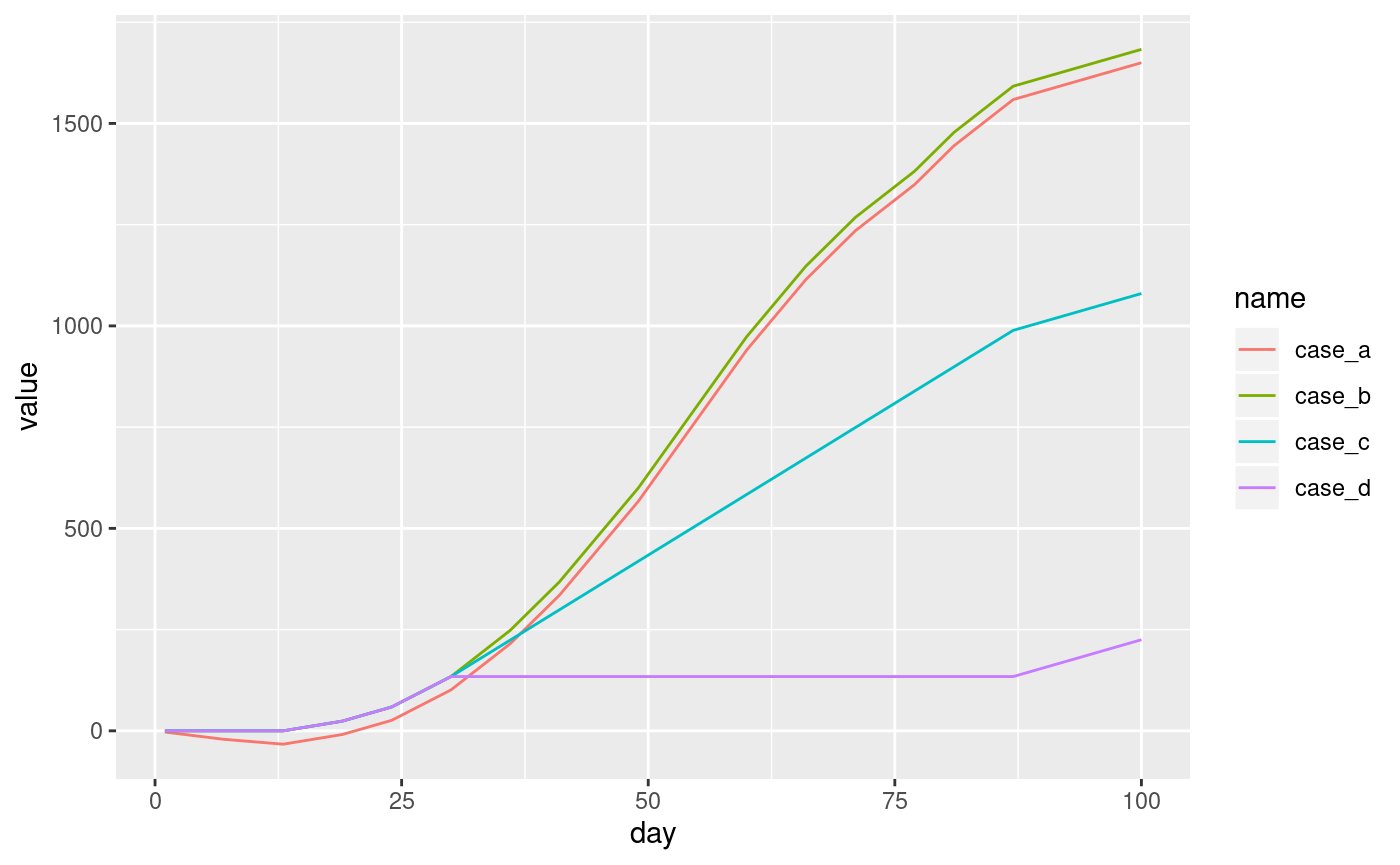
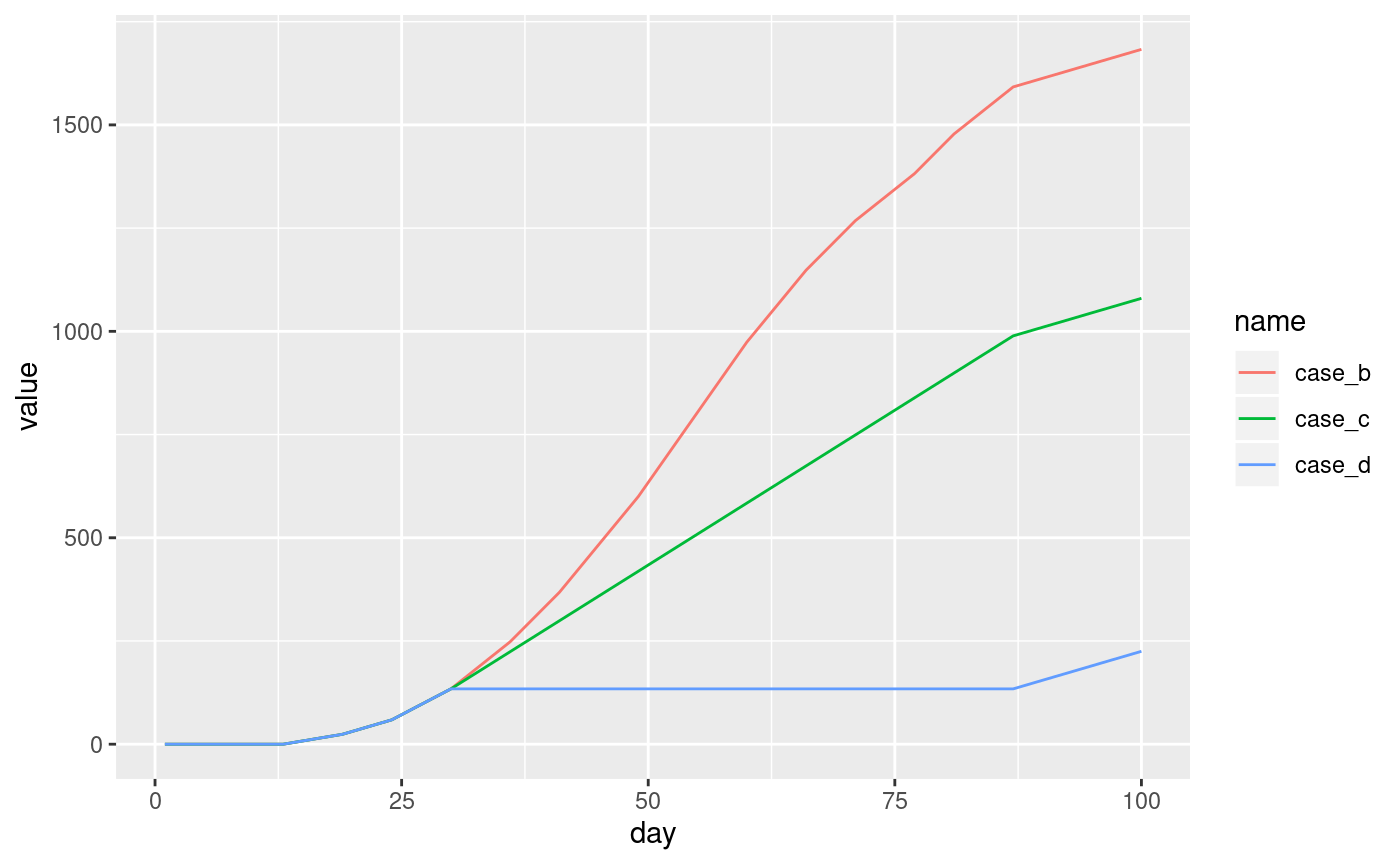
updates the website

diff --git a/docs/articles/gdd.html b/docs/articles/gdd.html
@@ -127,35 +127,32 @@
 <li>
 <code>tbase_max</code> - maximum base temperature</li>
 <li>
-<code>case</code> - type of the GDD calculations. Either “A”, “B”, “C”, or “D”. The default is “C”.</li>
+<code>case</code> - type of the GDD calculations. Either “B”, “C”, or “D”. The default is “C”.</li>
 </ul>
 <p>The last argument is inspired by the article by Baskerville and Emin (1969) (see Figure 1 in the mentioned paper).</p>
 <ul>
-<li>Case <code>"A"</code> - this is the simplest case. The heat units are calculated based on the difference between the mean daily temperature and the threshold (<code>tbase</code>)</li>
-<li>Case <code>"B"</code> - in this case when the value of <code>tmin</code> is lower than <code>tbase</code>, then it is replaced by <code>tbase</code>
+<li>Case <code>"B"</code> - The heat units are calculated based on the difference between the mean daily temperature and the threshold (<code>tbase</code>). In the case when the value of <code>tmin</code> is lower than <code>tbase</code>, then it is replaced by <code>tbase</code>
 </li>
 <li>Case <code>"C"</code> - same as case <code>"B"</code> and when the value of <code>tmax</code> is larger than <code>tbase_max</code>, then it is replaced by <code>tbase_max</code>
 </li>
 <li>Case <code>"D"</code>- same as case <code>"B"</code> and when the value of <code>tmax</code> is larger than <code>tbase_max</code>, then no heat units are added</li>
 </ul>
-<div class="sourceCode" id="cb4"><pre class="sourceCode r"><code class="sourceCode r"><a class="sourceLine" id="cb4-1" data-line-number="1">gdd_data<span class="op">$</span>case_a &lt;-<span class="st"> </span><span class="kw"><a href="../reference/gdd.html">gdd</a></span>(<span class="dt">tmax =</span> gdd_data<span class="op">$</span>tmax, <span class="dt">tmin =</span> gdd_data<span class="op">$</span>tmin,</a>
-<a class="sourceLine" id="cb4-2" data-line-number="2">                       <span class="dt">tbase =</span> <span class="dv">5</span>, <span class="dt">case =</span> <span class="st">"A"</span>)</a>
-<a class="sourceLine" id="cb4-3" data-line-number="3">gdd_data<span class="op">$</span>case_b &lt;-<span class="st"> </span><span class="kw"><a href="../reference/gdd.html">gdd</a></span>(<span class="dt">tmax =</span> gdd_data<span class="op">$</span>tmax, <span class="dt">tmin =</span> gdd_data<span class="op">$</span>tmin, </a>
-<a class="sourceLine" id="cb4-4" data-line-number="4">                       <span class="dt">tbase =</span> <span class="dv">5</span>, <span class="dt">case =</span> <span class="st">"B"</span>)</a>
-<a class="sourceLine" id="cb4-5" data-line-number="5">gdd_data<span class="op">$</span>case_c &lt;-<span class="st"> </span><span class="kw"><a href="../reference/gdd.html">gdd</a></span>(<span class="dt">tmax =</span> gdd_data<span class="op">$</span>tmax, <span class="dt">tmin =</span> gdd_data<span class="op">$</span>tmin, </a>
-<a class="sourceLine" id="cb4-6" data-line-number="6">                       <span class="dt">tbase =</span> <span class="dv">5</span>, <span class="dt">tbase_max =</span> <span class="dv">20</span>, <span class="dt">case =</span> <span class="st">"C"</span>)</a>
-<a class="sourceLine" id="cb4-7" data-line-number="7">gdd_data<span class="op">$</span>case_d &lt;-<span class="st"> </span><span class="kw"><a href="../reference/gdd.html">gdd</a></span>(<span class="dt">tmax =</span> gdd_data<span class="op">$</span>tmax, <span class="dt">tmin =</span> gdd_data<span class="op">$</span>tmin, </a>
-<a class="sourceLine" id="cb4-8" data-line-number="8">                       <span class="dt">tbase =</span> <span class="dv">5</span>, <span class="dt">tbase_max =</span> <span class="dv">20</span>, <span class="dt">case =</span> <span class="st">"D"</span>)</a>
-<a class="sourceLine" id="cb4-9" data-line-number="9"><span class="kw"><a href="https://rdrr.io/r/utils/head.html">head</a></span>(gdd_data)</a>
-<a class="sourceLine" id="cb4-10" data-line-number="10"><span class="co">#&gt;   day tmax tmin case_a case_b case_c case_d</span></a>
-<a class="sourceLine" id="cb4-11" data-line-number="11"><span class="co">#&gt; 1   1    2    2     -3      0      0      0</span></a>
-<a class="sourceLine" id="cb4-12" data-line-number="12"><span class="co">#&gt; 2   2    2    2     -6      0      0      0</span></a>
-<a class="sourceLine" id="cb4-13" data-line-number="13"><span class="co">#&gt; 3   3    2    2     -9      0      0      0</span></a>
-<a class="sourceLine" id="cb4-14" data-line-number="14"><span class="co">#&gt; 4   4    2    2    -12      0      0      0</span></a>
-<a class="sourceLine" id="cb4-15" data-line-number="15"><span class="co">#&gt; 5   5    2    2    -15      0      0      0</span></a>
-<a class="sourceLine" id="cb4-16" data-line-number="16"><span class="co">#&gt; 6   6    2    2    -18      0      0      0</span></a></code></pre></div>
+<div class="sourceCode" id="cb4"><pre class="sourceCode r"><code class="sourceCode r"><a class="sourceLine" id="cb4-1" data-line-number="1">gdd_data<span class="op">$</span>case_b &lt;-<span class="st"> </span><span class="kw"><a href="../reference/gdd.html">gdd</a></span>(<span class="dt">tmax =</span> gdd_data<span class="op">$</span>tmax, <span class="dt">tmin =</span> gdd_data<span class="op">$</span>tmin, </a>
+<a class="sourceLine" id="cb4-2" data-line-number="2">                       <span class="dt">tbase =</span> <span class="dv">5</span>, <span class="dt">case =</span> <span class="st">"B"</span>)</a>
+<a class="sourceLine" id="cb4-3" data-line-number="3">gdd_data<span class="op">$</span>case_c &lt;-<span class="st"> </span><span class="kw"><a href="../reference/gdd.html">gdd</a></span>(<span class="dt">tmax =</span> gdd_data<span class="op">$</span>tmax, <span class="dt">tmin =</span> gdd_data<span class="op">$</span>tmin, </a>
+<a class="sourceLine" id="cb4-4" data-line-number="4">                       <span class="dt">tbase =</span> <span class="dv">5</span>, <span class="dt">tbase_max =</span> <span class="dv">20</span>, <span class="dt">case =</span> <span class="st">"C"</span>)</a>
+<a class="sourceLine" id="cb4-5" data-line-number="5">gdd_data<span class="op">$</span>case_d &lt;-<span class="st"> </span><span class="kw"><a href="../reference/gdd.html">gdd</a></span>(<span class="dt">tmax =</span> gdd_data<span class="op">$</span>tmax, <span class="dt">tmin =</span> gdd_data<span class="op">$</span>tmin, </a>
+<a class="sourceLine" id="cb4-6" data-line-number="6">                       <span class="dt">tbase =</span> <span class="dv">5</span>, <span class="dt">tbase_max =</span> <span class="dv">20</span>, <span class="dt">case =</span> <span class="st">"D"</span>)</a>
+<a class="sourceLine" id="cb4-7" data-line-number="7"><span class="kw"><a href="https://rdrr.io/r/utils/head.html">head</a></span>(gdd_data)</a>
+<a class="sourceLine" id="cb4-8" data-line-number="8"><span class="co">#&gt;   day tmax tmin case_b case_c case_d</span></a>
+<a class="sourceLine" id="cb4-9" data-line-number="9"><span class="co">#&gt; 1   1    2    2      0      0      0</span></a>
+<a class="sourceLine" id="cb4-10" data-line-number="10"><span class="co">#&gt; 2   2    2    2      0      0      0</span></a>
+<a class="sourceLine" id="cb4-11" data-line-number="11"><span class="co">#&gt; 3   3    2    2      0      0      0</span></a>
+<a class="sourceLine" id="cb4-12" data-line-number="12"><span class="co">#&gt; 4   4    2    2      0      0      0</span></a>
+<a class="sourceLine" id="cb4-13" data-line-number="13"><span class="co">#&gt; 5   5    2    2      0      0      0</span></a>
+<a class="sourceLine" id="cb4-14" data-line-number="14"><span class="co">#&gt; 6   6    2    2      0      0      0</span></a></code></pre></div>
 <p>Finally, let’s compare these four cases:</p>
-<div class="sourceCode" id="cb5"><pre class="sourceCode r"><code class="sourceCode r"><a class="sourceLine" id="cb5-1" data-line-number="1">df_plot2 &lt;-<span class="st"> </span><span class="kw"><a href="https://tidyr.tidyverse.org/reference/pivot_longer.html">pivot_longer</a></span>(gdd_data, case_a<span class="op">:</span>case_d)</a>
+<div class="sourceCode" id="cb5"><pre class="sourceCode r"><code class="sourceCode r"><a class="sourceLine" id="cb5-1" data-line-number="1">df_plot2 &lt;-<span class="st"> </span><span class="kw"><a href="https://tidyr.tidyverse.org/reference/pivot_longer.html">pivot_longer</a></span>(gdd_data, case_b<span class="op">:</span>case_d)</a>
 <a class="sourceLine" id="cb5-2" data-line-number="2">p2 &lt;-<span class="st"> </span><span class="kw"><a href="https://ggplot2.tidyverse.org/reference/ggplot.html">ggplot</a></span>(df_plot2) <span class="op">+</span></a>
 <a class="sourceLine" id="cb5-3" data-line-number="3"><span class="st">  </span><span class="kw"><a href="https://ggplot2.tidyverse.org/reference/geom_path.html">geom_line</a></span>(<span class="kw"><a href="https://ggplot2.tidyverse.org/reference/aes.html">aes</a></span>(day, value, <span class="dt">color =</span> name))</a>
 <a class="sourceLine" id="cb5-4" data-line-number="4">p2</a></code></pre></div>

diff --git a/docs/index.html b/docs/index.html
@@ -81,7 +81,7 @@
 <div class="page-header"><h1 class="hasAnchor">
 <a href="#pollen---tools-for-working-with-aerobiological-data" class="anchor"></a>Pollen - tools for working with aerobiological data</h1></div>
 
-<p><code>pollen</code> is a set of functions for working with aerobiological data. It takes care of some of the most widely use aerobiological calculations, such as determination of pollen season limits or replacement of outliers in a pollen count data.</p>
+<p>The <strong>pollen</strong> package is a set of functions for working with aerobiological data. It takes care of some of the most widely use aerobiological calculations, including determination of pollen season limits, replacement of outliers (Kasprzyk and Walanus (2014) <a href="doi:10.1007/s10453-014-9332-8" class="uri">doi:10.1007/s10453-014-9332-8</a>), and calculation of growing degree days (Baskerville and Emin (1969) <a href="doi:10.2307/1933912" class="uri">doi:10.2307/1933912</a>).</p>
 <div id="installation" class="section level2">
 <h2 class="hasAnchor">
 <a href="#installation" class="anchor"></a>Installation</h2>
@@ -119,13 +119,27 @@
 <a class="sourceLine" id="cb5-11" data-line-number="11"><span class="co">#&gt; 8  2014 2014-04-08 2014-05-10</span></a>
 <a class="sourceLine" id="cb5-12" data-line-number="12"><span class="co">#&gt; 9  2015 2015-04-08 2015-04-30</span></a>
 <a class="sourceLine" id="cb5-13" data-line-number="13"><span class="co">#&gt; 10 2016 2016-04-06 2016-05-09</span></a></code></pre></div>
-<p>More examples could be found in <a href="https://cdn.rawgit.com/Nowosad/pollen/master/vignettes/intro.html">the first package vignette</a>.</p>
+<p>More examples of pollen seasons’ calculations can be found in <a href="https://nowosad.github.io/pollen/articles/intro.html">the first package vignette</a>.</p>
+</div>
+<div id="growing-degree-days-gdd-calculation" class="section level3">
+<h3 class="hasAnchor">
+<a href="#growing-degree-days-gdd-calculation" class="anchor"></a>Growing degree days (GDD) calculation</h3>
+<p>Examples of Growing degree days (GDD) calculations can be found in <a href="https://nowosad.github.io/pollen/articles/gdd.html">the second package vignette</a>.</p>
 </div>
 </div>
 <div id="contributions" class="section level2">
 <h2 class="hasAnchor">
 <a href="#contributions" class="anchor"></a>Contributions</h2>
 <p><a href="https://github.com/Nowosad/pollen/issues">Feel free to submit issues and enhancement requests.</a></p>
+</div>
+<div id="references" class="section level2">
+<h2 class="hasAnchor">
+<a href="#references" class="anchor"></a>References</h2>
+<ul>
+<li>Baskerville, G., &amp; Emin, P. (1969). Rapid Estimation of Heat Accumulation from Maximum and Minimum Temperatures. Ecology, 50(3), 514-517. <a href="doi:10.2307/1933912" class="uri">doi:10.2307/1933912</a>
+</li>
+<li>Kasprzyk, I. and A. Walanus.: 2014. Gamma, Gaussian and Logistic Distribution Models for Airborne Pollen Grains and Fungal Spore Season Dynamics, Aerobiologia 30(4), 369-83.</li>
+</ul>
 </div>
 </div>
   </div>

diff --git a/docs/reference/gdd.html b/docs/reference/gdd.html
@@ -149,13 +149,16 @@ and minimum temperatures, a base temperature and a maximum base temperature</p>
     </tr>
     <tr>
       <th>case</th>
-      <td><p>either "A", "B", "C", or "D". The default is "C".</p></td>
+      <td><p>either "B", "C", or "D". The default is "C".</p></td>
     </tr>
     </table>
 
     <h2 class="hasAnchor" id="value"><a class="anchor" href="#value"></a>Value</h2>
 
     <p>a numeric vector with GDD values</p>
+    <h2 class="hasAnchor" id="references"><a class="anchor" href="#references"></a>References</h2>
+
+    <p>Baskerville, G., &amp; Emin, P. (1969). Rapid Estimation of Heat Accumulation from Maximum and Minimum Temperatures. Ecology, 50(3), 514-517. doi:10.2307/1933912</p>
 
     <h2 class="hasAnchor" id="examples"><a class="anchor" href="#examples"></a>Examples</h2>
     <pre class="examples"><div class='input'><span class='fu'><a href='https://rdrr.io/r/base/Random.html'>set.seed</a></span>(<span class='fl'>25</span>)
@@ -186,6 +189,7 @@ and minimum temperatures, a base temperature and a maximum base temperature</p>
     <ul class="nav nav-pills nav-stacked">
       <li><a href="#arguments">Arguments</a></li>
       <li><a href="#value">Value</a></li>
+      <li><a href="#references">References</a></li>
       <li><a href="#examples">Examples</a></li>
     </ul>
 
